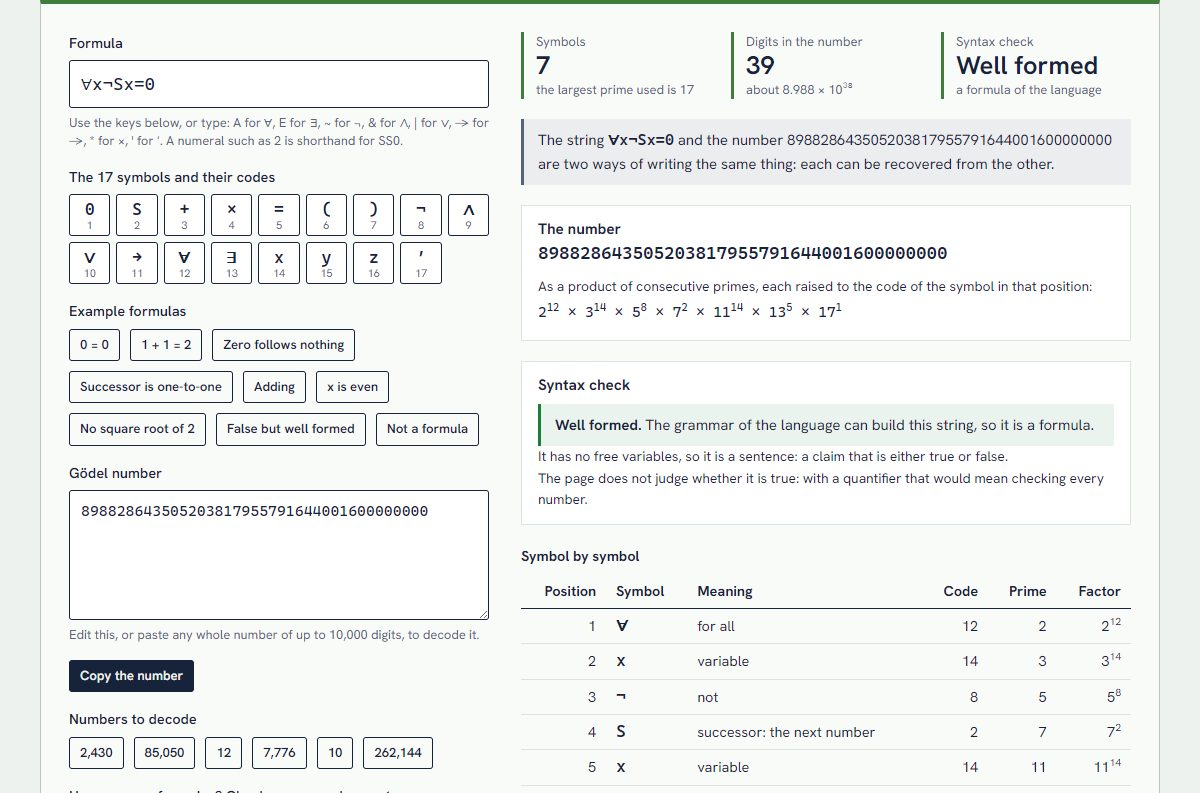
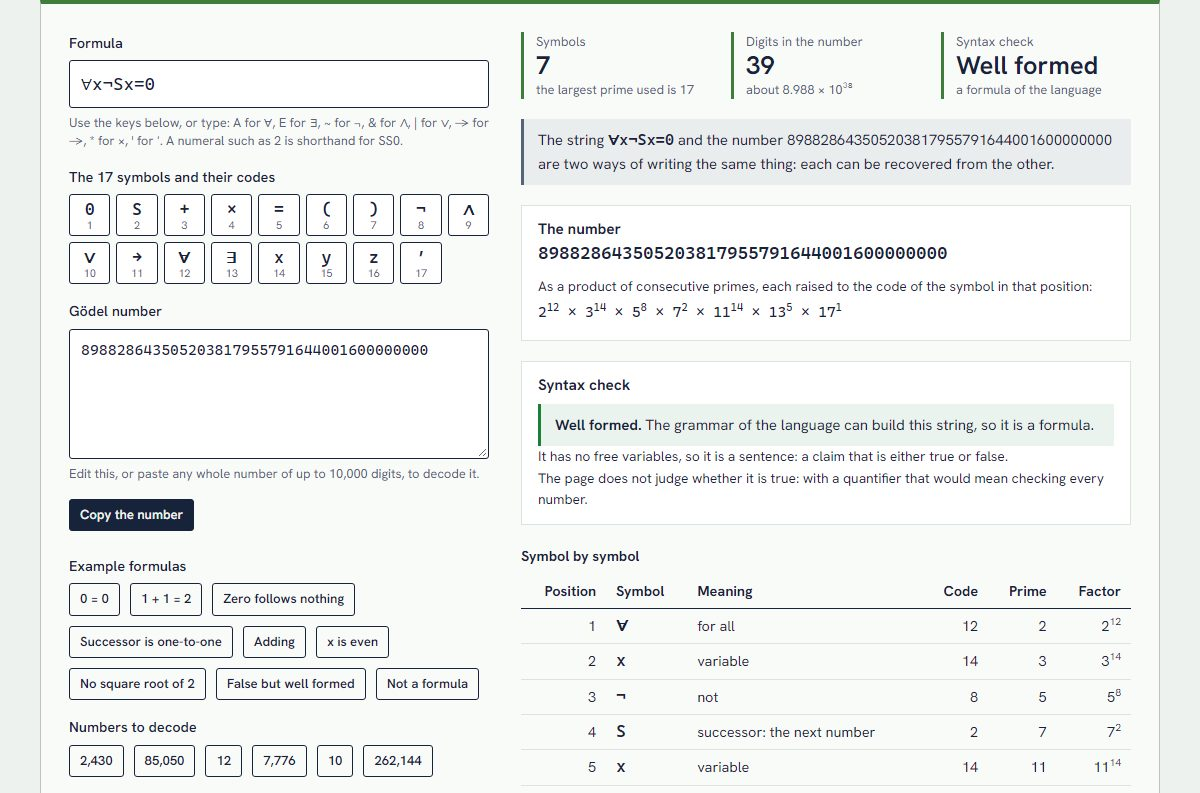
Review project 22: wrap long formulas, results nearer the input on phones, uniqueness test

diff --git a/365projects/22/index.html b/365projects/22/index.html
@@ -15,8 +15,12 @@
     .keys button { display: grid; justify-items: center; padding: 4px 0 3px; border: 1.5px solid var(--ink); border-radius: 3px; background: #fff; color: var(--ink); font: inherit; cursor: pointer; }
     .keys button:hover { background: color-mix(in srgb, var(--ink) 8%, #fff); }
     .keys b { font: 600 1.05rem/1.25 var(--mono); }
-    .keys small { font-size: 0.68rem; line-height: 1.1; color: var(--slate); }
+    /* The code under each symbol is drawn from data-code, so the button's name stays "Insert <symbol>: <name>, code <n>". */
+    .keys button::after { content: attr(data-code); font-size: 0.68rem; line-height: 1.1; color: var(--slate); }
+    /* The boxes, the results, then the examples and the count. Wide screens: results in the right-hand column beside both other blocks. */
+    @media (min-width: 861px) { #app .tool-grid { grid-template-rows: auto 1fr; } #app .tool-grid > .out { grid-column: 2; grid-row: 1 / span 2; } }
     .panel > * + * { margin-top: 8px; }
+    .factors > span, .tbl td > span { position: relative; } /* keeps the words written for screen readers inside their own box */
     #app input.mono { font-size: 1.12rem; }
     #app .note .mono { font-size: 1.05em; font-weight: 600; }
     .bignum { font: 600 1.12rem/1.45 var(--mono); overflow-wrap: anywhere; }
@@ -27,7 +31,7 @@
     .string .bad { background: color-mix(in srgb, var(--bad) 22%, transparent); outline: 2px solid var(--bad); border-radius: 2px; padding: 0 2px; }
     .scroll { max-height: 360px; overflow: auto; }
     .sym { font: 600 1.05rem/1 var(--mono); }
-    #app .note { overflow-wrap: anywhere; }
+    #app .out { overflow-wrap: anywhere; } /* a long formula has no spaces to break at */
     @media (max-width: 560px) { .scroll .tbl th:nth-child(3), .scroll .tbl td:nth-child(3) { display: none; } }
     .codes { border-collapse: collapse; margin-top: 14px; font: 400 0.98rem/1.4 var(--sans); }
     .codes th, .codes td { padding: 4px 14px 4px 0; text-align: left; border-bottom: 1px solid var(--grid); }
@@ -53,7 +57,7 @@
 
     <section class="p-sec">
       <h2>The idea</h2>
-      <p>In 1931 Kurt Gödel published a paper that ended the hope, associated with David Hilbert, of a single system of axioms that would prove every truth of mathematics and could be shown to be free of contradiction. The proof starts with a piece of bookkeeping. Give each symbol of a formal language a number. Then a formula, which is a row of symbols, can be packed into one number: raise the first prime to the code of the first symbol, the second prime to the code of the second, and multiply. Because every whole number factors into primes in exactly one way, the formula can always be unpacked again.</p>
+      <p>In 1931 Kurt Gödel published a paper that undermined the hope, associated with David Hilbert, of a single system of axioms that would settle every question of mathematics and could be shown, by elementary reasoning, to be free of contradiction. The proof starts with a piece of bookkeeping. Give each symbol of a formal language a number. Then a formula, which is a row of symbols, can be packed into one number: raise the first prime to the code of the first symbol, the second prime to the code of the second, and multiply. Because every whole number factors into primes in exactly one way, the formula can always be unpacked again.</p>
       <p>The point of the packing is what it does to statements <em>about</em> formulas. "This string is well formed", "this formula follows from those two by a rule of inference" and "this list of formulas is a proof" all become statements about numbers: a number has a certain pattern of prime exponents, or stands in a certain computable relation to other numbers. And statements about numbers are exactly what a formal theory of arithmetic can express. So a theory of arithmetic can, in its own language, describe its own formulas and proofs.</p>
       <p>From there the first incompleteness theorem runs, in outline, as follows. Take a consistent formal system <var>F</var> whose axioms can be listed by a mechanical procedure and which proves the basic facts of arithmetic. Gödel showed there is a formula of arithmetic, Prov(<var>x</var>), that holds of a number exactly when it is the Gödel number of a formula provable in <var>F</var>. A further construction, the diagonal lemma, yields a sentence <var>G</var> for which <var>F</var> proves "<var>G</var> if and only if not Prov(the number of <var>G</var>)". Loosely, <var>G</var> says "I am not provable in <var>F</var>". If <var>F</var> proved <var>G</var>, the proof could be checked by arithmetic, so <var>F</var> would also prove Prov(the number of <var>G</var>), which contradicts <var>G</var>: <var>F</var> would be inconsistent. So <var>F</var> does not prove <var>G</var>, which is what <var>G</var> says. Gödel showed that <var>F</var> does not prove the negation of <var>G</var> either, under a slightly stronger assumption than consistency; in 1936 J. Barkley Rosser, using a modified sentence, showed that plain consistency is enough. Either way <var>F</var> leaves a sentence of its own language undecided.</p>
       <p>This is the Liar of day 21 with "false" replaced by "unprovable", and the replacement turns a paradox into a theorem. The same move, treating descriptions of a system as data inside the system, is what Alan Turing used five years later to define computation, and it is why a computer can store a program as a number. This page carries out only the first step: the numbering, and the simplest syntactic check on what a number encodes.</p>
@@ -96,7 +100,7 @@ unit     ::= term = term | ¬ unit | ( formula )
 conj     ::= unit { ∧ unit }
 disj     ::= conj { ∨ conj }
 formula  ::= disj [ → formula ]</pre>
-      <p>In words: × binds tighter than +; ¬ and the quantifiers apply to the next unit only; ∧ binds tighter than ∨, which binds tighter than →; repeated +, ×, ∧ and ∨ group to the left and repeated → groups to the right. A <strong>term</strong> names a number; a formula says something. Brackets override the grouping.</p>
+      <p>In words: S applies to the next factor only; × binds tighter than +; ¬ and the quantifiers apply to the next unit only; ∧ binds tighter than ∨, which binds tighter than →; repeated +, ×, ∧ and ∨ group to the left and repeated → groups to the right. A <strong>term</strong> names a number; a formula says something. Brackets override the grouping. Because the order of operations is written into the rules themselves, a string can be built in at most one way: a test counts the ways of building every string of up to four symbols, and of thousands of longer ones, and never finds two.</p>
 
       <h3>Encoding</h3>
       <p>Let the symbols of the string have codes <var>c</var><sub>1</sub>, <var>c</var><sub>2</sub>, …, <var>c</var><sub><var>k</var></sub> and let <var>p</var><sub><var>i</var></sub> be the <var>i</var>-th prime. The Gödel number of the string is</p>
@@ -117,7 +121,7 @@ formula  ::= disj [ → formula ]</pre>
       <p>For a well-formed formula the page also lists its free variables (those not governed by a quantifier), writes it out with every bracket restored, and, in the one case where truth can be settled by calculation, a formula with no variables at all, says whether it is true.</p>
 
       <h3>Counting codes</h3>
-      <p>The count at the bottom of the controls decodes every number from 1 up to the limit you choose and classifies what comes out. It is the direct way to see how thinly formulas are spread among the numbers.</p>
+      <p>The count at the end of the tool decodes every number from 1 up to the limit you choose and classifies what comes out. It is the direct way to see how thinly formulas are spread among the numbers.</p>
     </section>
 
     <section class="p-sec">
@@ -127,7 +131,7 @@ formula  ::= disj [ → formula ]</pre>
         <li><strong>Whether a formula is true or provable.</strong> Well formed, true and provable are three different properties. S0=0 is well formed and false. The page checks truth only for formulas with no variables, where it is a matter of calculation; for sentences with quantifiers no mechanical method can decide truth in general, a result closely related to Gödel's.</li>
         <li><strong>Anything about the numbers themselves.</strong> The code table is a convention. Gödel's own table was different (he gave his basic signs the odd numbers from 1 to 13), and any mechanical one-to-one coding would serve. A particular Gödel number means nothing apart from the table that produced it.</li>
         <li><strong>What the real undecidable sentence looks like.</strong> Prime-power coding is wildly wasteful, and the page stops at 200 symbols and 10,000 digits. Gödel's sentence written in this language would contain the numeral for a Gödel number, and a numeral for <var>n</var> is <var>n</var> copies of S. It could not be displayed here or anywhere else.</li>
-        <li><strong>What counts as well formed in general.</strong> The grammar here lets brackets be left out and settles the reading by precedence. Many textbooks instead require every bracket, which makes "each formula can be read in only one way" a theorem about the grammar and not a rule of the parser.</li>
+        <li><strong>What counts as well formed in general.</strong> The grammar here is one choice among many. It lets brackets be left out and fixes the reading by precedence, and that each string then has only one reading has been checked by exhaustive test, not proved. Many textbooks instead require every bracket, which gives a simpler grammar for which "each formula can be read in only one way" is a standard theorem.</li>
         <li><strong>The factors of an arbitrary number.</strong> The decoder is not a general factoriser. For a number that is not a code it stops at the first missing prime, and it names the next prime factor only when that factor is below 110,000 or the remainder is small enough to test directly.</li>
       </ul>
     </section>
@@ -148,11 +152,11 @@ formula  ::= disj [ → formula ]</pre>
       <h2>Sources</h2>
       <ul class="refs">
         <li>Gödel, K. (1931). Über formal unentscheidbare Sätze der Principia Mathematica und verwandter Systeme I. <em>Monatshefte für Mathematik und Physik</em>, 38, 173-198.</li>
-        <li>Rosser, J. B. (1936). Extensions of some theorems of Gödel and Church. <em>Journal of Symbolic Logic</em>, 1.</li>
-        <li>Turing, A. M. (1936). On computable numbers, with an application to the Entscheidungsproblem. <em>Proceedings of the London Mathematical Society</em>.</li>
+        <li>Rosser, J. B. (1936). Extensions of some theorems of Gödel and Church. <em>Journal of Symbolic Logic</em>, 1(3), 87-91.</li>
+        <li>Turing, A. M. (1936-37). On computable numbers, with an application to the Entscheidungsproblem. <em>Proceedings of the London Mathematical Society</em>, Series 2, 42, 230-265.</li>
         <li>Nagel, E., and Newman, J. R. (1958). <em>Gödel's Proof</em>. New York University Press.</li>
         <li>Hofstadter, D. R. (1979). <em>Gödel, Escher, Bach: An Eternal Golden Braid</em>. Basic Books.</li>
-        <li>Smith, P. <em>An Introduction to Gödel's Theorems</em>. Cambridge University Press.</li>
+        <li>Smith, P. (2007). <em>An Introduction to Gödel's Theorems</em>. Cambridge University Press.</li>
         <li>Raatikainen, P. Gödel's incompleteness theorems. <em>Stanford Encyclopedia of Philosophy</em>.</li>
       </ul>
     </section>

diff --git a/365projects/22/app.js b/365projects/22/app.js
@@ -37,7 +37,7 @@ const insert = (glyph) => {
   fromFormula();
 };
 const keys = el("div", { class: "keys", role: "group", "aria-label": "Symbols of the language with their codes" },
-  SYMBOLS.map((s) => el("button", { type: "button", title: `${s.name}, code ${s.code}`, "aria-label": `Insert ${s.glyph}: ${s.name}, code ${s.code}`, onclick: () => insert(s.glyph) }, el("b", { text: s.glyph }), el("small", { text: s.code }))));
+  SYMBOLS.map((s) => el("button", { type: "button", title: `${s.name}, code ${s.code}`, "aria-label": `Insert ${s.glyph}: ${s.name}, code ${s.code}`, "data-code": s.code, onclick: () => insert(s.glyph) }, el("b", { text: s.glyph }))));
 const copied = el("span", { class: "small muted", role: "status" });
 const copy = () => {
   const done = (text) => { copied.textContent = text; setTimeout(() => { copied.textContent = ""; }, 2500); };
@@ -50,13 +50,22 @@ const upTo = select({ label: "How rare are formulas? Check every number up to", 
 const censusOut = el("div", { class: "small", role: "status" });
 const censusButton = button("Count the codes", () => runCensus(Number(upTo.value)), { small: true });
 
-const controls = el("div", { class: "controls" },
+// On a phone the examples and the count sit below the results. When one of their buttons changes the two boxes,
+// bring the boxes (and so the start of the results) back into view.
+const reveal = () => { const r = formula.el.getBoundingClientRect(); if (r.top < 0 || r.bottom > innerHeight) formula.el.scrollIntoView({ block: "start" }); };
+const useFormula = (text) => { formula.value = text; fromFormula(); reveal(); };
+const useNumber = (text) => { number.value = text; fromNumber(); reveal(); };
+
+// Three blocks in reading order: the two boxes, the results, then things to try. On a wide screen the results take
+// the right-hand column; on a narrow one they come straight after the boxes instead of below every control.
+const boxes = el("div", { class: "controls" },
   formula.el,
   el("div", { class: "field" }, el("div", { class: "lab" }, el("span", { text: "The 17 symbols and their codes" })), keys),
-  el("div", { class: "field" }, el("div", { class: "lab" }, el("span", { text: "Example formulas" })), el("div", { class: "row" }, FORMULAS.map((f) => button(f.label, () => { formula.value = f.text; fromFormula(); }, { small: true })))),
   number.el,
-  el("div", { class: "row" }, button("Copy the number", copy, { small: true, primary: true }), copied),
-  el("div", { class: "field" }, el("div", { class: "lab" }, el("span", { text: "Numbers to decode" })), el("div", { class: "row" }, NUMBERS.map((n) => button(fmt.int(Number(n)), () => { number.value = n; fromNumber(); }, { small: true })))),
+  el("div", { class: "row" }, button("Copy the number", copy, { small: true, primary: true }), copied));
+const extras = el("div", { class: "controls" },
+  el("div", { class: "field" }, el("div", { class: "lab" }, el("span", { text: "Example formulas" })), el("div", { class: "row" }, FORMULAS.map((f) => button(f.label, () => useFormula(f.text), { small: true })))),
+  el("div", { class: "field" }, el("div", { class: "lab" }, el("span", { text: "Numbers to decode" })), el("div", { class: "row" }, NUMBERS.map((n) => button(fmt.int(Number(n)), () => useNumber(n), { small: true })))),
   upTo.el, el("div", { class: "row" }, censusButton), censusOut);
 
 /* ---------- outputs ---------- */
@@ -68,9 +77,9 @@ const numberBox = el("div", { class: "panel" });
 const syntaxBox = el("div", { class: "panel" });
 const tableBox = el("div");
 const out = el("div", { class: "out" }, el("div", { class: "stats" }, sSymbols.el, sDigits.el, sKind.el), message, numberBox, syntaxBox, tableBox);
-$("#app").append(el("div", { class: "tool-grid wide-controls" }, controls, out));
+$("#app").append(el("div", { class: "tool-grid wide-controls" }, boxes, out, extras));
 
-const power = (p, c) => [String(p), el("sup", { text: c })];
+const power = (p, c) => [String(p), el("span", { class: "sr-only", text: " to the power " }), el("sup", { text: c })];
 const raised = (n) => [...String(n)].map((d) => "⁰¹²³⁴⁵⁶⁷⁸⁹"[d]).join(""); // for places that take plain text only
 const KIND = { formula: ["Well formed", "a formula of the language"], term: ["A term", "a name for a number, not a formula"], neither: ["Malformed", "a string of symbols, but not a formula"] };
 
@@ -114,11 +123,11 @@ function render(codes, n, lead) {
 
   const rows = factors(codes);
   numberBox.replaceChildren(...[
-    el("h3", { text: "The number" }),
+    el("h2", { text: "The number" }),
     el("p", { class: "bignum", text: info.short }),
     info.digits > 40 && el("p", { class: "small muted", text: `${fmt.int(info.digits)} digits; the first and last 18 are shown, and the whole number is in the box.` }),
     el("p", { class: "small", style: { marginTop: "10px" } }, "As a product of consecutive primes, each raised to the code of the symbol in that position:"),
-    el("p", { class: "factors", "aria-label": `Factorisation: ${rows.map((r) => `${r.prime} to the power ${r.code}`).join(", times ")}` }, rows.flatMap((r, i) => [i ? " × " : "", el("span", {}, power(r.prime, r.code))])),
+    el("p", { class: "factors" }, rows.flatMap((r, i) => [i ? " × " : "", el("span", {}, power(r.prime, r.code))])),
   ].filter(Boolean));
 
   const marked = (at) => el("p", { class: "string" }, codes.map((_, i) => el("span", { class: i === at ? "bad" : null, text: show([codes[i]]) })), at >= codes.length ? el("span", { class: "bad", text: " " }) : null);
@@ -140,7 +149,7 @@ function render(codes, n, lead) {
   } else {
     body = [el("div", { class: "note warn" }, el("strong", { text: "Not well formed. " }), `It is a string of symbols with a Gödel number, but the grammar cannot build it. ${c.error}`), marked(c.position)];
   }
-  syntaxBox.replaceChildren(el("h3", { text: "Syntax check" }), ...body.filter((b) => b && (typeof b === "string" || b.textContent)));
+  syntaxBox.replaceChildren(el("h2", { text: "Syntax check" }), ...body.filter((b) => b && (typeof b === "string" || b.textContent)));
 
   const shown = rows.slice(0, 200);
   tableBox.replaceChildren(el("div", { class: "scroll" }, table({
@@ -168,7 +177,7 @@ function runCensus(limit) {
     if (to < limit) { censusOut.textContent = `Checked ${fmt.int(to)} of ${fmt.int(limit)} …`; setTimeout(() => stepFrom(to + 1), 0); return; }
     censusOut.replaceChildren(
       `From 1 to ${fmt.int(limit)}: ${fmt.int(total.strings)} ${total.strings === 1 ? "number is" : "numbers are"} the code of a string, ${fmt.int(total.terms)} of a term, and ${fmt.int(total.formulas.length)} of a well-formed formula${total.formulas.length ? ": " : "."}`,
-      ...total.formulas.slice(0, 12).flatMap((n, i) => [i ? " " : "", button(fmt.int(n), () => { number.value = String(n); fromNumber(); }, { small: true })]));
+      ...total.formulas.slice(0, 12).flatMap((n, i) => [i ? " " : "", button(fmt.int(n), () => useNumber(String(n)), { small: true })]));
   };
   stepFrom(1);
 }
